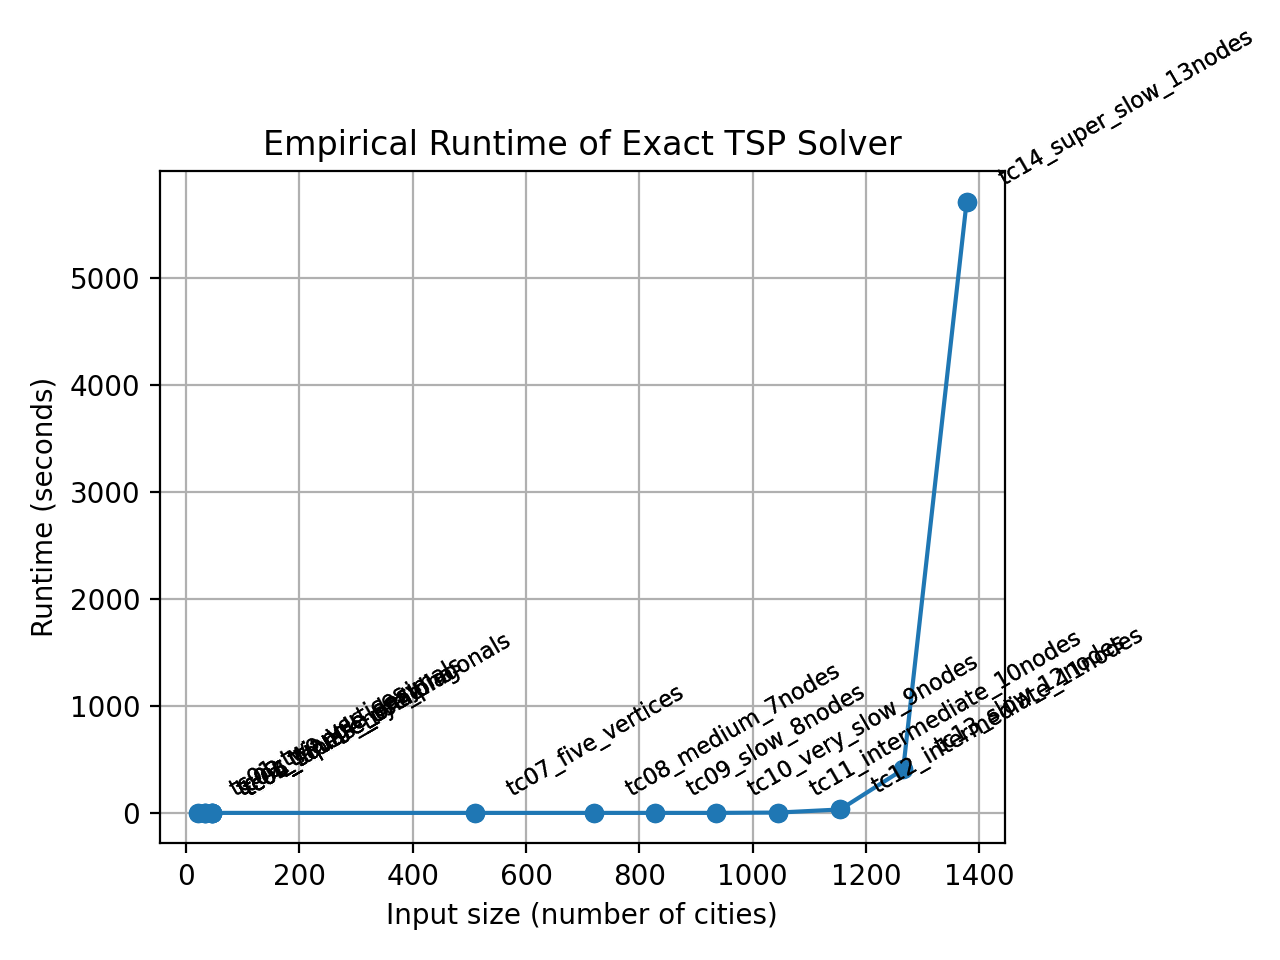
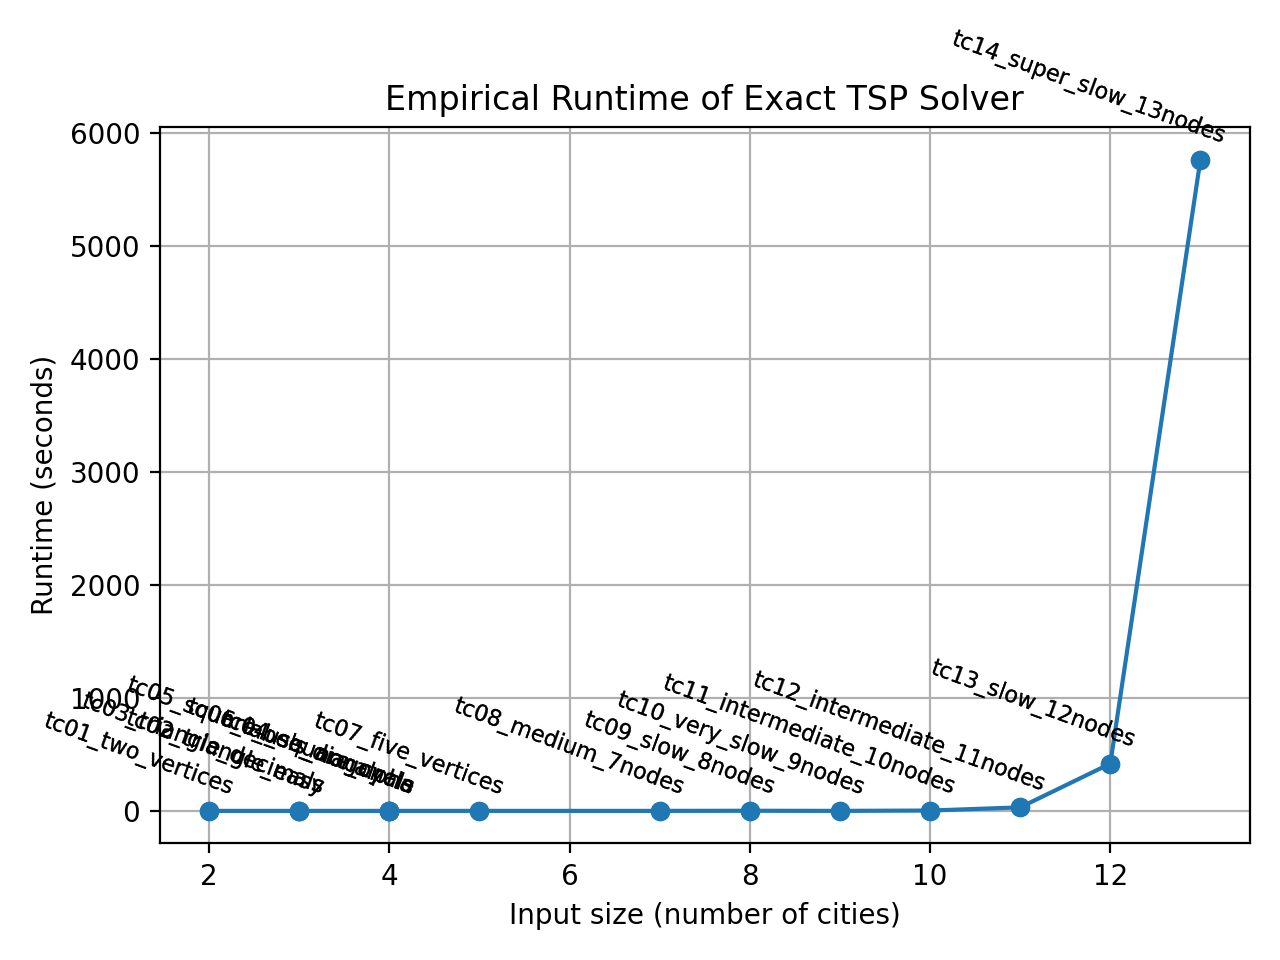
fixed long tests and x axis of plots for exact solution

diff --git a/exact_solution/test_cases/plot_runtime.py b/exact_solution/test_cases/plot_runtime.py
@@ -51,8 +51,8 @@ for x, y, label in zip(input_sizes, runtimes, labels):
         (x, y),
         textcoords="offset points",
         xytext=(10, 6),   # offset diagonally
-        ha="left",
-        rotation=30,
+        ha="right",
+        rotation=-20,
         fontsize=8
     )
 
